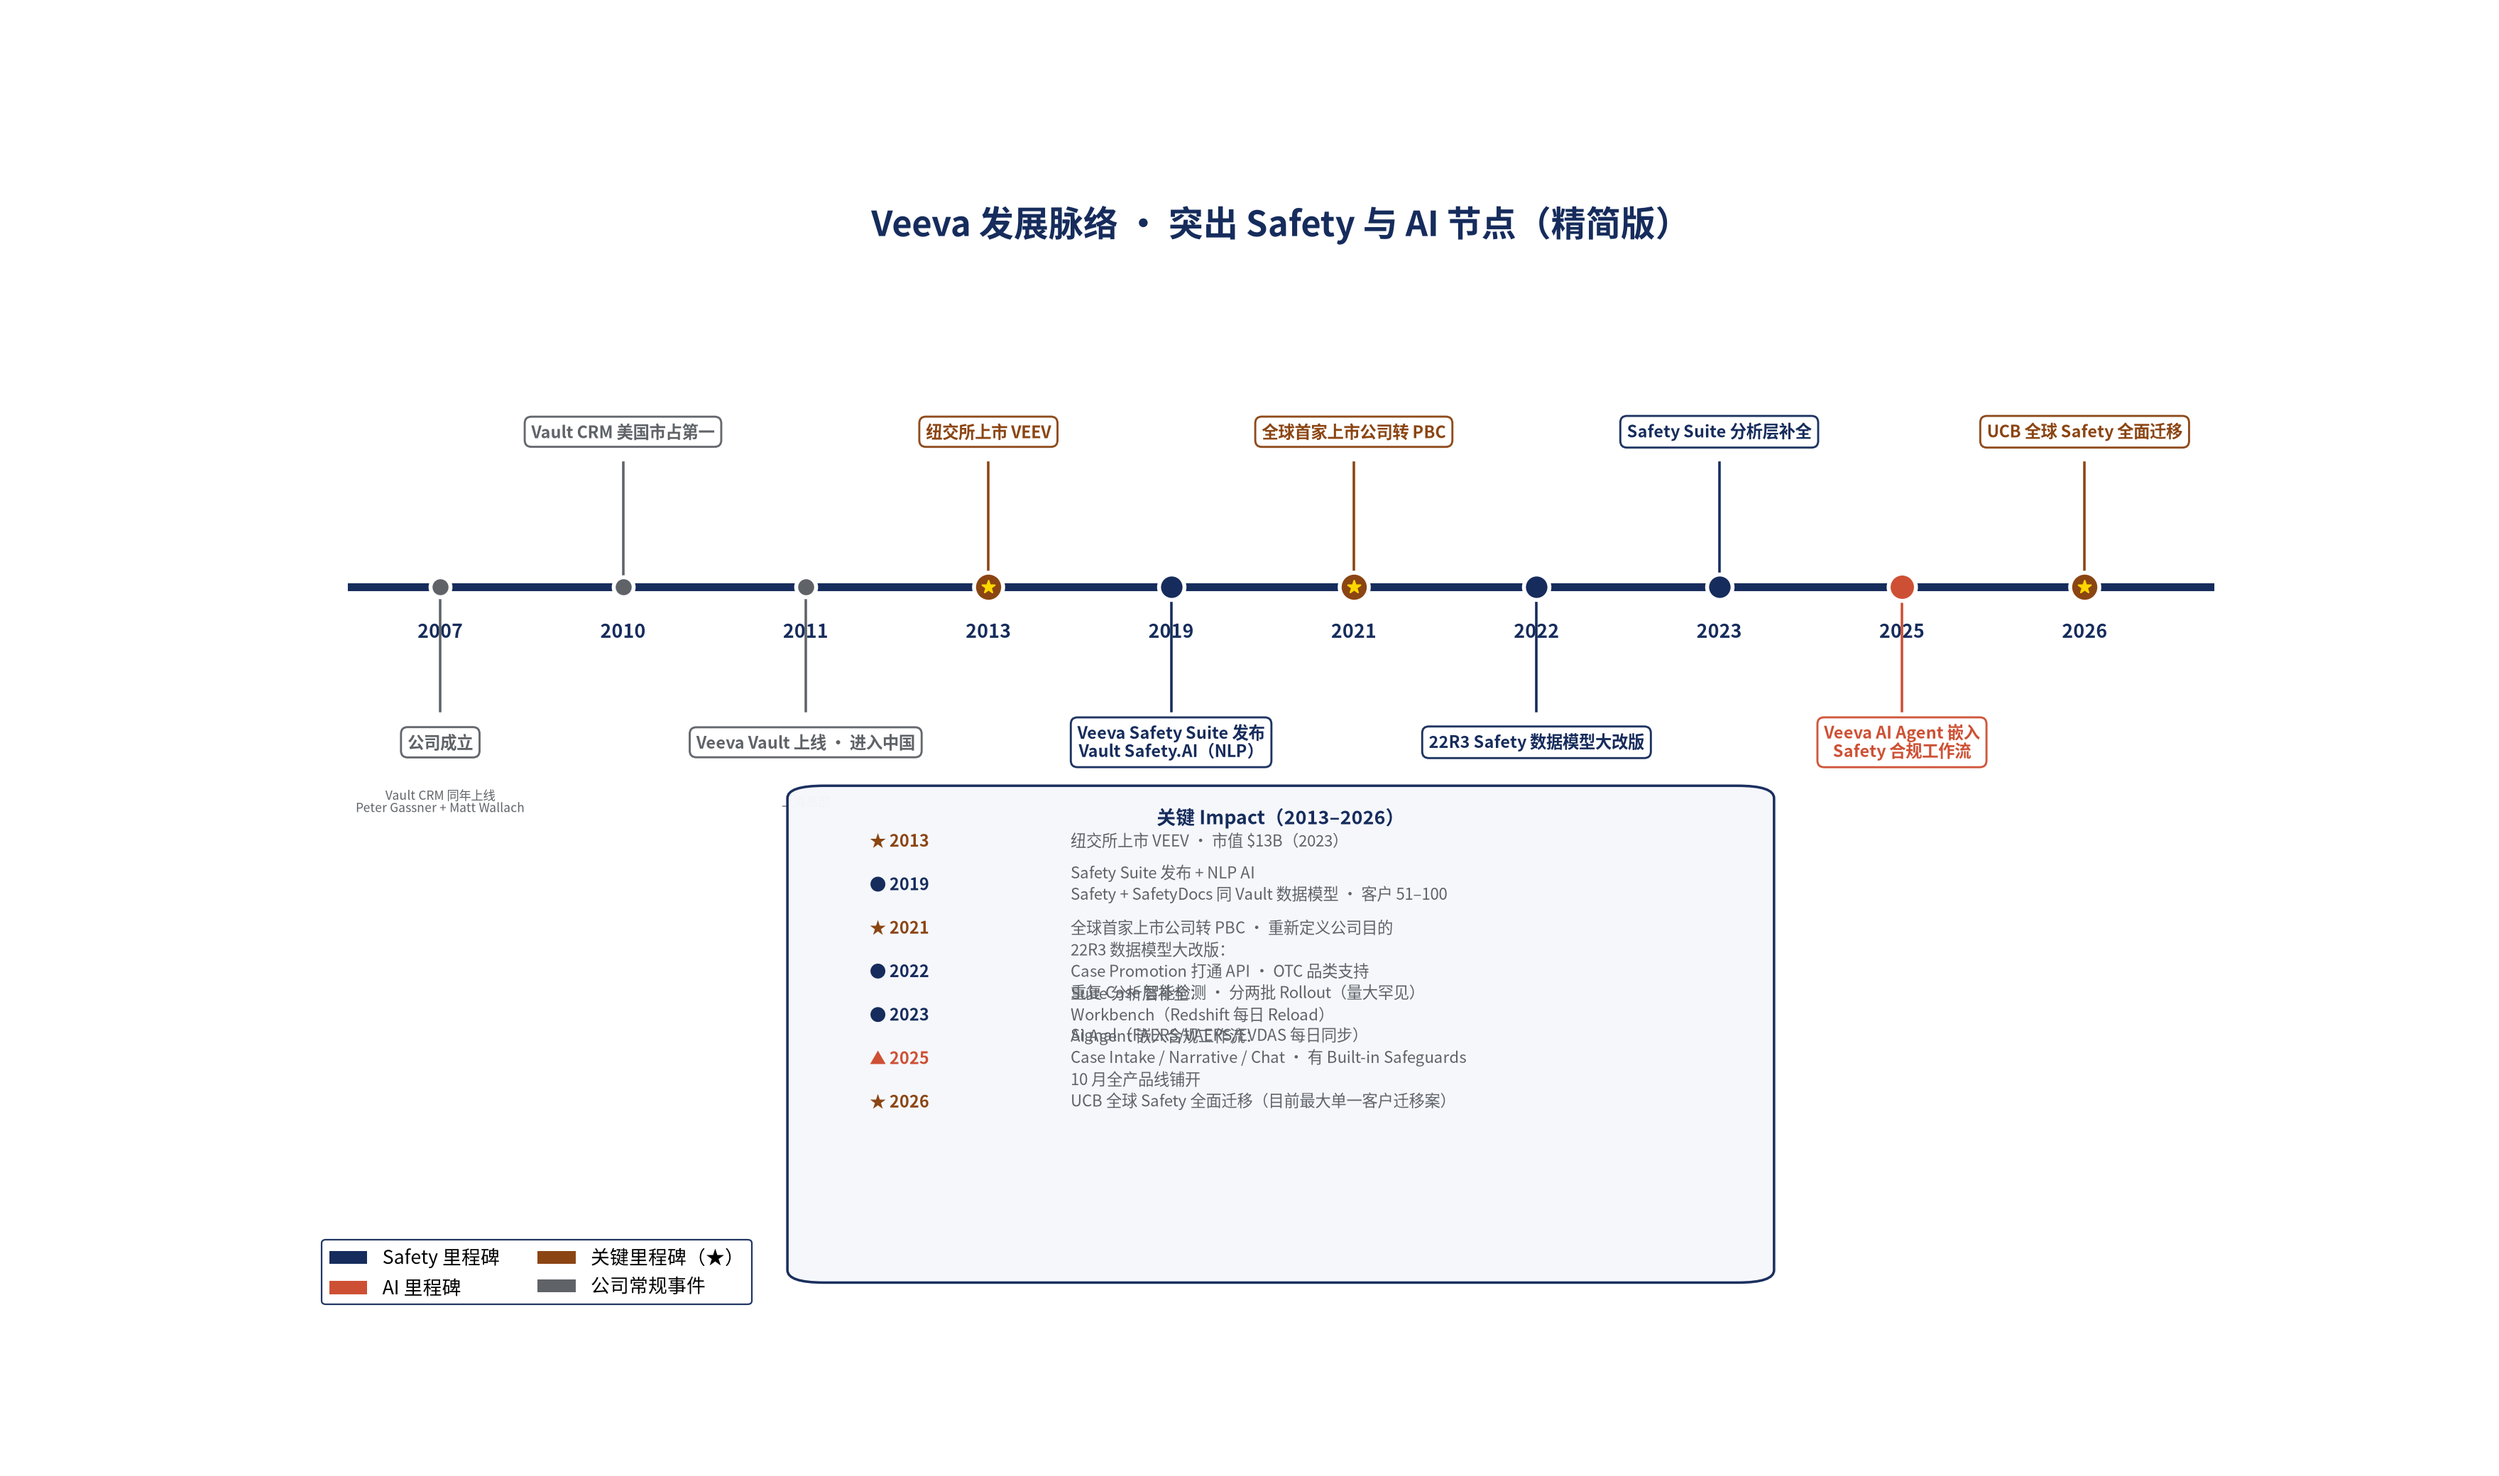
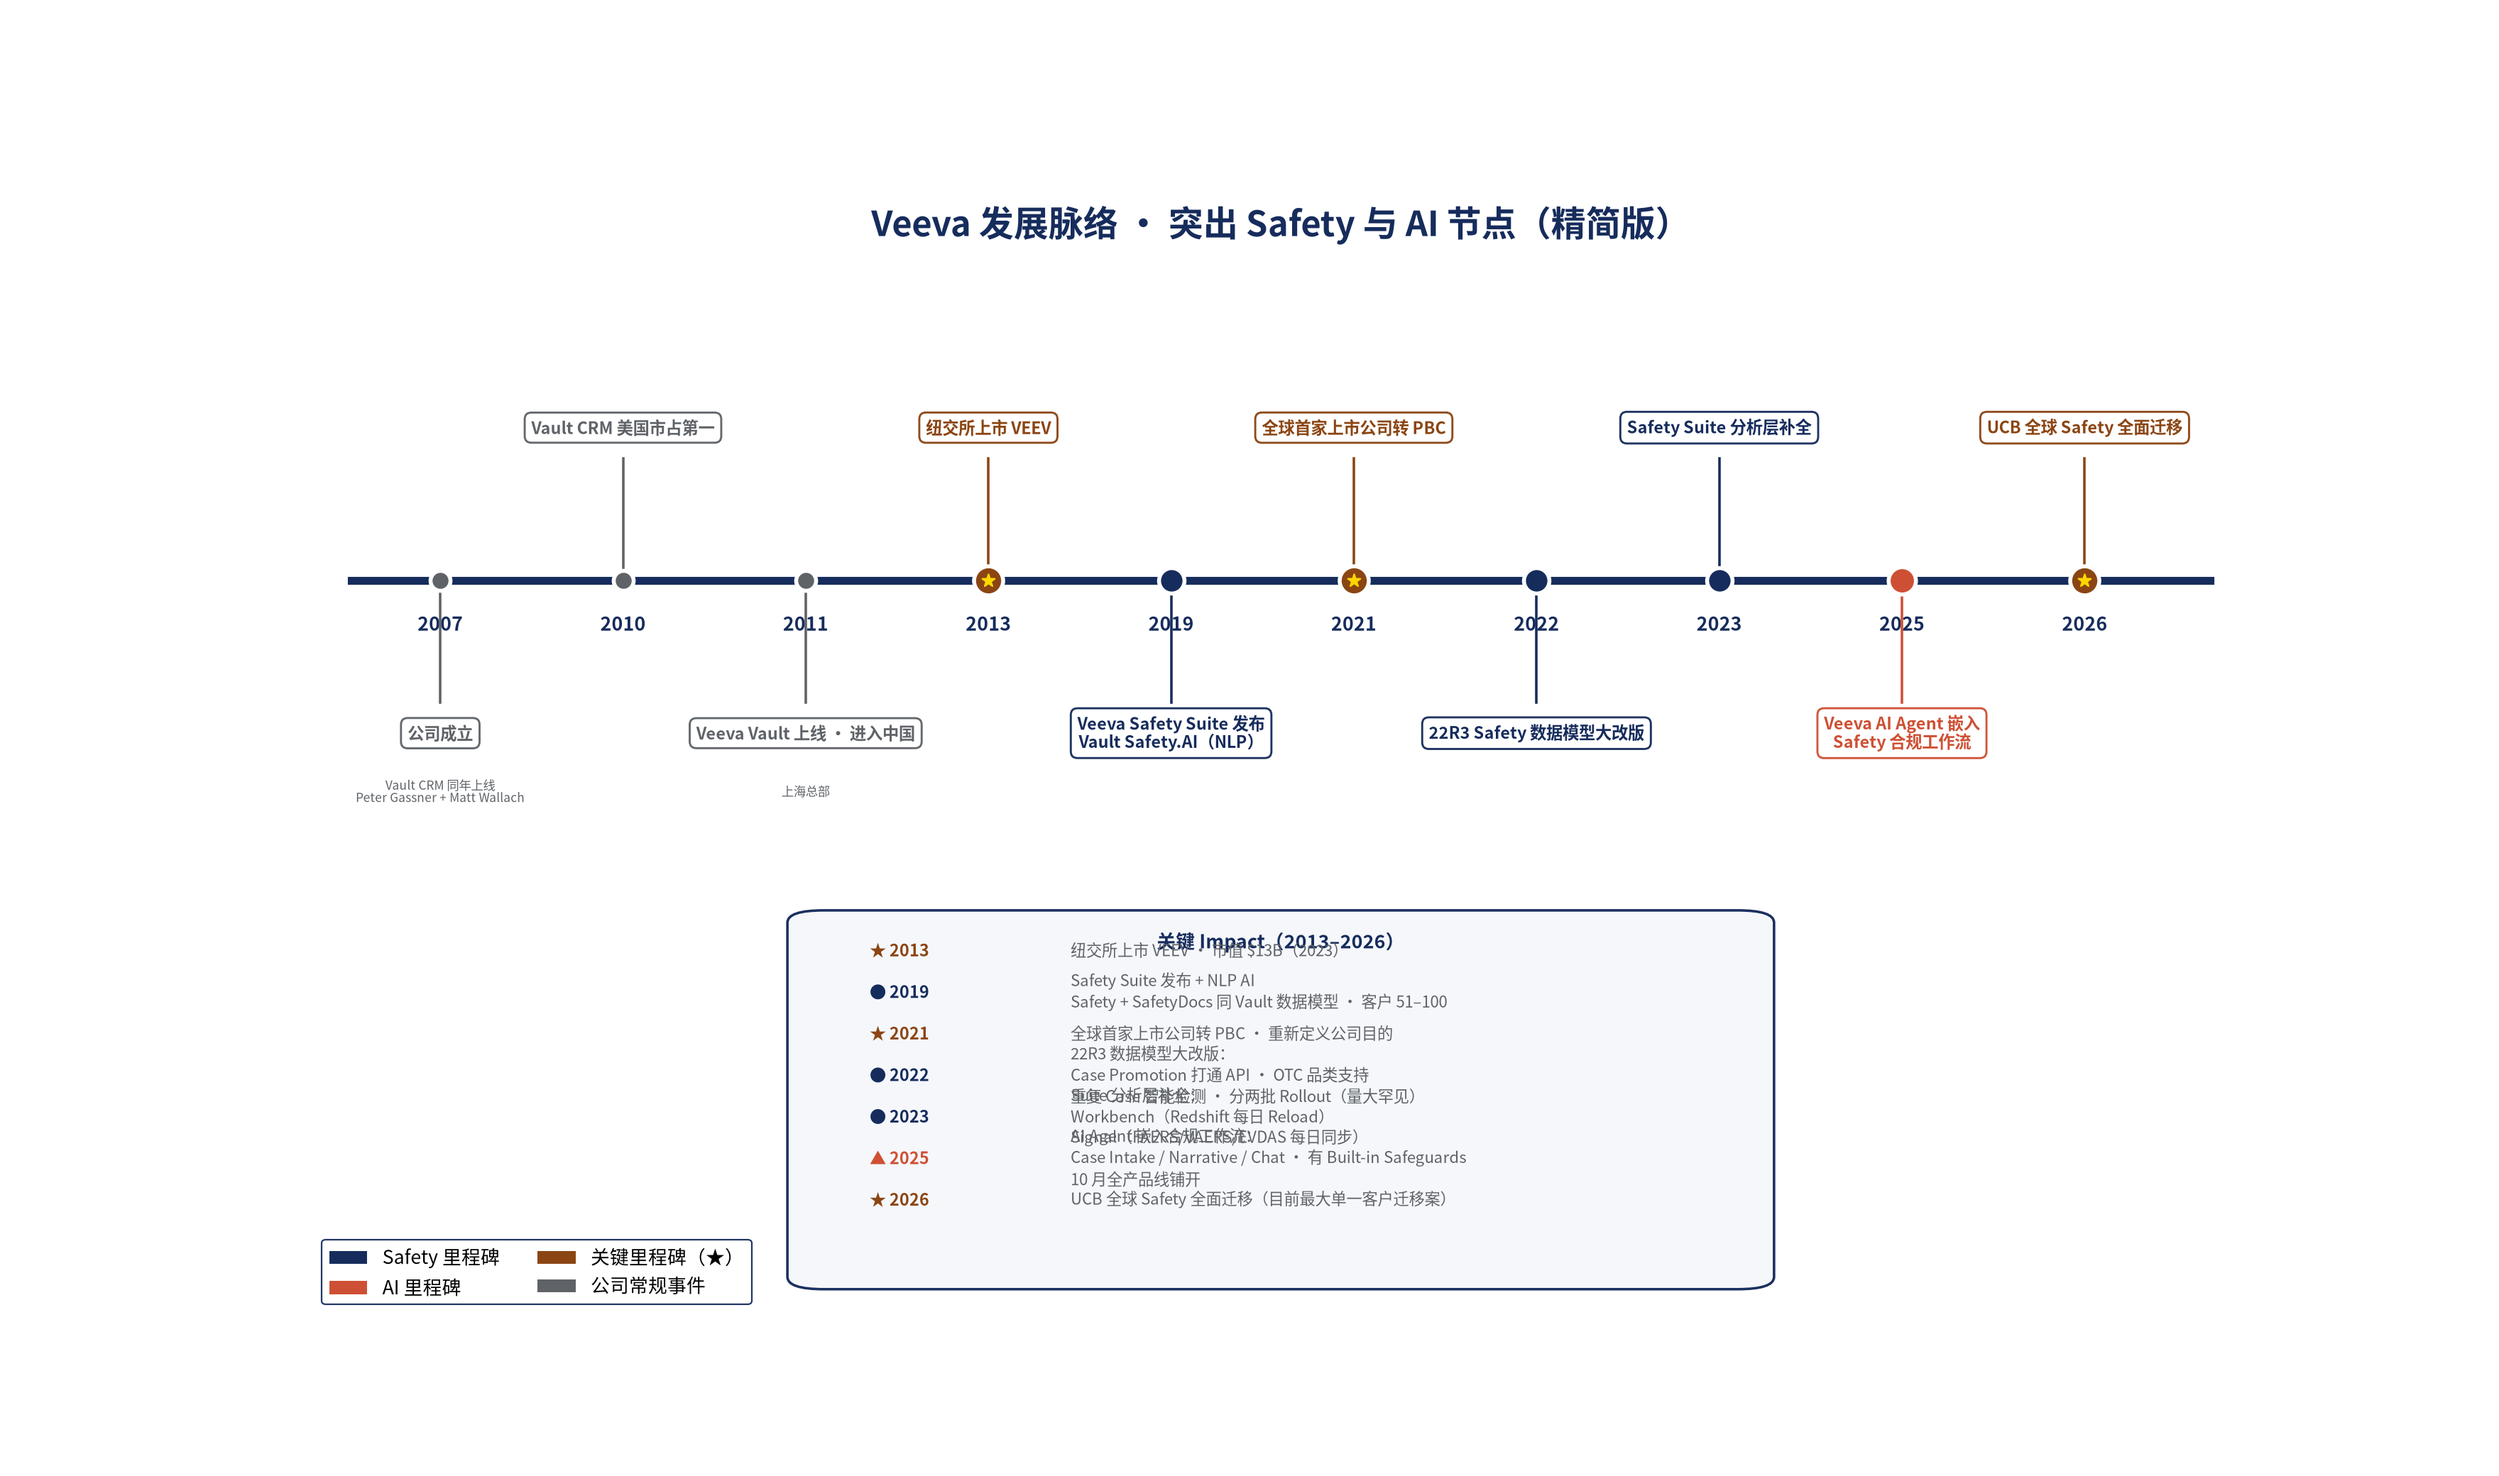
Veeva v3.7：Impact 框整体下移 + 高度缩小，内容下移，与左下角图例底对齐

diff --git a/veeva_timeline_v3.py b/veeva_timeline_v3.py
@@ -38,7 +38,7 @@ n = len(events)
 #   y:  4.5 ~ 6.0      timeline 下方节点标题区（不会低于 y=4.0）
 #   y: -3.0 ~  3.5     Impact 框区
 ax.set_xlim(-0.7, n - 0.1)
-ax.set_ylim(-4.5, 13.8)   # 底部从 -3.5 → -4.5，框底能完整可见
+ax.set_ylim(-4.8, 13.8)   # 底部再放 0.3，框底完整可见
 ax.set_aspect('auto')
 
 # ---------- 时间轴 ----------
@@ -90,14 +90,13 @@ for idx, yr, color, title, sub in events:
                 ha='center', va='center', fontsize=7.8, color=GRAY, style='italic',
                 multialignment='center')
 
-# ---------- Impact 框：底部居中 ----------
-# 框宽度 5.0，居中于画布底部（画布 x: -0.7 ~ 9.9，中心 x=4.6）
+# ---------- Impact 框：整体下移 + 高度缩小 + 内容下移 ----------
 box_w = 5.0
-box_center_x = (ax.get_xlim()[0] + ax.get_xlim()[1]) / 2   # = 4.6
-right_box_left = box_center_x - box_w / 2   # 左边缘 = 2.1
+box_center_x = (ax.get_xlim()[0] + ax.get_xlim()[1]) / 2
+right_box_left = box_center_x - box_w / 2
 right_box_w = box_w
-right_box_y = -3.8
-right_box_h = 7.6
+right_box_y = -4.2              # 框底下移（从 -3.8 → -4.2）
+right_box_h = 5.8               # 高度缩小（从 7.6 → 5.8），框顶 = 1.6，底部对齐图例
 
 right_box = FancyBboxPatch(
     (right_box_left, right_box_y),
@@ -124,8 +123,9 @@ impact_lines = [
 ]
 
 bullet_colors = {'●': NAVY, '★': MILESTONE, '▲': ACCENT}
-impact_start_y = right_box_y + right_box_h - 0.68
-line_spacing = 0.70
+# 内容往下移，紧凑排列，刚好填满缩小后的框
+impact_start_y = right_box_y + right_box_h - 0.45   # 从框顶往下 0.45 开始第一条
+line_spacing = 0.68
 
 for i, (bullet, yr, text) in enumerate(impact_lines):
     y = impact_start_y - i * line_spacing
